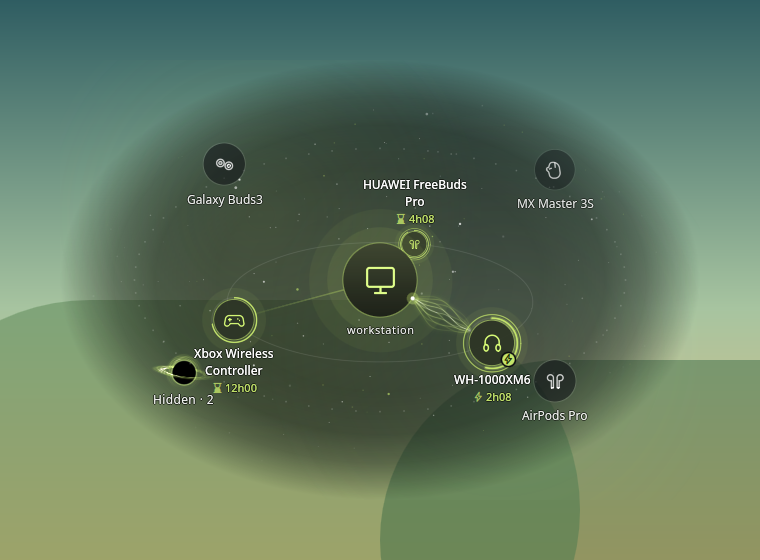
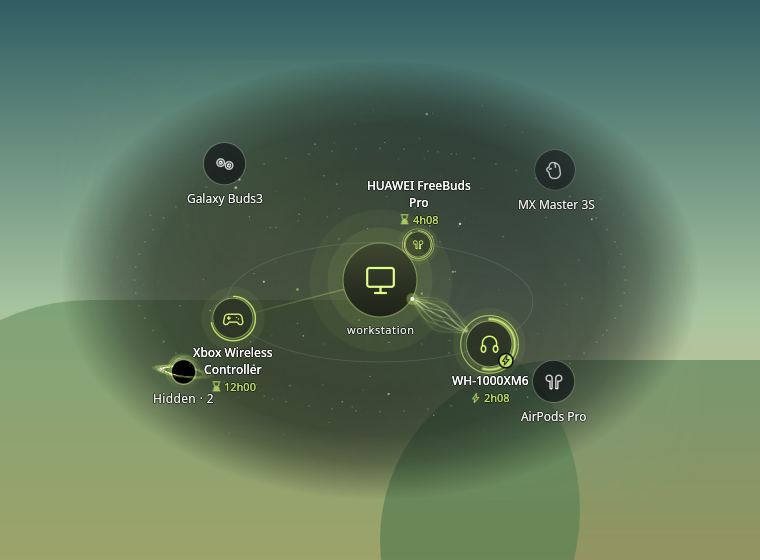
Readable labels on every surface, not only the desktop
Device names were still too faint in the Control Center and the bar
popout: far devices faded to about 30 %. The outline now applies to
every label, far devices barely fade (0.85-1) and their disc is a
little more present. The desktop disc gets a bit darker too.

diff --git a/components/DeviceBody.qml b/components/DeviceBody.qml
@@ -188,7 +188,7 @@ Item {
     y: py - height / 2
     // Bodies on the far side of the ring pass behind the host core (z 50)
     z: focused ? 20000 : dragging ? 10000 : inSlot && depth < 0 ? 10 + py * 0.01 : 100 + py
-    opacity: leaving ? 0 : (spawned ? 1 : 0) * ((scene.focusBody && scene.focusBody !== body) || scene.hiddenOpen ? 0.1 : 1) * (inSlot ? 1 : scene.glass ? (dormant ? 0.8 : 0.85 + 0.15 * signal) : dormant ? 0.5 : 0.6 + 0.4 * signal)
+    opacity: leaving ? 0 : (spawned ? 1 : 0) * ((scene.focusBody && scene.focusBody !== body) || scene.hiddenOpen ? 0.1 : 1) * (inSlot ? 1 : dormant ? 0.85 : 0.9 + 0.1 * signal)
 
     Behavior on opacity {
         NumberAnimation {
@@ -454,9 +454,9 @@ Item {
                     duration: 260
                 }
             }
-            color: body.night.whiteBodies ? (body.connected ? Qt.tint("#FFFFFF", Theme.withAlpha(Theme.primary, 0.1)) : Qt.rgba(1, 1, 1, body.dormant ? 0.35 : 0.72)) : body.connected ? Qt.tint(Qt.rgba(0.06, 0.07, 0.09, 0.92), Theme.withAlpha(body.night.primary, 0.16)) : body.scene.glass ? Qt.rgba(0.05, 0.06, 0.08, body.dormant ? 0.5 : 0.6) : Qt.rgba(1, 1, 1, body.dormant ? 0.035 : 0.07)
+            color: body.night.whiteBodies ? (body.connected ? Qt.tint("#FFFFFF", Theme.withAlpha(Theme.primary, 0.1)) : Qt.rgba(1, 1, 1, body.dormant ? 0.35 : 0.72)) : body.connected ? Qt.tint(Qt.rgba(0.06, 0.07, 0.09, 0.92), Theme.withAlpha(body.night.primary, 0.16)) : body.scene.glass ? Qt.rgba(0.05, 0.06, 0.08, body.dormant ? 0.62 : 0.7) : Qt.rgba(1, 1, 1, body.dormant ? 0.07 : 0.1)
             border.width: 1
-            border.color: body.armed && body.holding ? Theme.withAlpha(body.night.error, 0.8) : body.armed ? Theme.withAlpha(body.night.primary, 0.9) : body.connected ? Theme.withAlpha(body.night.primary, 0.55) : Qt.rgba(1, 1, 1, body.dormant ? 0.08 : 0.14)
+            border.color: body.armed && body.holding ? Theme.withAlpha(body.night.error, 0.8) : body.armed ? Theme.withAlpha(body.night.primary, 0.9) : body.connected ? Theme.withAlpha(body.night.primary, 0.55) : Qt.rgba(1, 1, 1, body.dormant ? 0.14 : 0.2)
 
             Behavior on color {
                 ColorAnimation {
@@ -796,8 +796,8 @@ Item {
             horizontalAlignment: Text.AlignHCenter
             text: body.name
             elide: Text.ElideRight
-            color: Qt.rgba(1, 1, 1, body.connected || body.hovered ? 0.88 : body.scene.glass ? 0.78 : 0.5)
-            style: body.scene.glass ? Text.Outline : Text.Normal
+            color: Qt.rgba(1, 1, 1, body.connected || body.hovered ? 0.95 : 0.88)
+            style: Text.Outline
             styleColor: body.scene.labelShade
             font.pixelSize: Math.max(9, Math.round(body.diameter * 0.2))
             font.weight: body.connected ? Font.Medium : Font.Normal
@@ -824,7 +824,7 @@ Item {
                 anchors.verticalCenter: parent.verticalCenter
                 text: Charge.formatShort(parent.minutes)
                 color: Theme.withAlpha(body.night.primary, 0.8)
-                style: body.scene.glass ? Text.Outline : Text.Normal
+                style: Text.Outline
                 styleColor: body.scene.labelShade
                 font.pixelSize: Math.max(8, Math.round(body.diameter * 0.18))
                 font.weight: Font.Medium
@@ -839,7 +839,7 @@ Item {
             visible: !body.charging && !(body.minutesLeft > 0) && body.connected && body.scene.sinceFor(body.address) > 0 && !(body.charge?.minutesToFull > 0)
             text: Catalog.formatDuration(body.scene.now - body.scene.sinceFor(body.address))
             color: Theme.withAlpha(body.night.primary, 0.75)
-            style: body.scene.glass ? Text.Outline : Text.Normal
+            style: Text.Outline
             styleColor: body.scene.labelShade
             font.family: "monospace"
             font.pixelSize: Math.max(8, Math.round(body.diameter * 0.17))

diff --git a/components/OrbitScene.qml b/components/OrbitScene.qml
@@ -25,8 +25,9 @@ Item {
     property bool freezeWhenIdle: false      // desktop: stop animating when idle
     property bool interacting: false         // desktop: pointer is over the widget
     property bool glass: false               // desktop: frameless, fades into the wallpaper
-    // On the desktop, labels sit on whatever wallpaper the user has, often a
-    // pale or busy one: they get a dark, theme-tinted outline to stay legible
+    // Labels get a dark, theme-tinted outline so they stay legible on any
+    // background: a pale or busy wallpaper on the desktop, the bright halo
+    // of a connected device in the panels
     readonly property color labelShade: Qt.tint(Qt.rgba(0.02, 0.024, 0.04, 0.75), Theme.withAlpha(night.primary, 0.07))
     property real cornerRadius: 0            // rounded hosts (Control Center, popout)
     property var previewDevices: []          // fake device objects, for previews and tests
@@ -1299,8 +1300,8 @@ Item {
             y: core.y + core.height + 4
             z: 50
             text: UserInfoService.hostname || ""
-            color: Qt.rgba(1, 1, 1, scene.glass ? 0.7 : 0.45)
-            style: scene.glass ? Text.Outline : Text.Normal
+            color: Qt.rgba(1, 1, 1, 0.75)
+            style: Text.Outline
             styleColor: scene.labelShade
             font.pixelSize: Math.max(9, Math.round(scene.coreSize * 0.14))
             font.letterSpacing: 0.6

diff --git a/components/BlackHole.qml b/components/BlackHole.qml
@@ -75,8 +75,8 @@ Item {
         anchors.horizontalCenter: parent.horizontalCenter
         y: parent.height / 2 + hole.horizon + 6
         text: hole.count > 0 ? "Hidden · " + hole.count : "Hidden"
-        color: Qt.rgba(1, 1, 1, hole.hovered || hole.feed > 0.3 ? 0.8 : hole.scene.glass ? 0.7 : 0.42)
-        style: hole.scene.glass ? Text.Outline : Text.Normal
+        color: Qt.rgba(1, 1, 1, hole.hovered || hole.feed > 0.3 ? 0.88 : 0.75)
+        style: Text.Outline
         styleColor: hole.scene.labelShade
         font.pixelSize: Math.max(9, Math.round(hole.scene.bodySize * 0.2))
         font.letterSpacing: 0.4

diff --git a/README.md b/README.md
@@ -20,7 +20,7 @@ disconnect it. Charging devices receive a beam of energy from the core.
 - Follows light and dark DMS themes, the sky always stays night
 - Idle scenes use no frames at all; nothing leaves your machine
 
-**New in 1.4.1:** device names stay readable on a pale or busy wallpaper. See the [changelog](#changelog) and the [roadmap](#roadmap).
+**New in 1.4.1:** device names stay readable everywhere, even on a pale or busy wallpaper. See the [changelog](#changelog) and the [roadmap](#roadmap).
 
 **Contents:** [Install](#install) · [Quick start](#quick-start) · [Using the orbit](#using-the-orbit) · [Noise control](#noise-control) · [Settings](#settings) · [Privacy](#privacy) · [Troubleshooting](#troubleshooting) · [Changelog](#changelog) · [Roadmap](#roadmap)
 
@@ -441,7 +441,7 @@ over time.
 ## Changelog
 
 ### 1.4.1 (2026-09-27)
-- Desktop widget: device names, the host name and the black hole's label get a thin dark outline tinted by your theme, and devices that are not connected fade less and sit on a smoky disc. They no longer vanish on a pale or busy wallpaper. The Control Center and the bar popout look the same as before.
+- Device names are readable everywhere: every label (devices, host, black hole) gets a thin dark outline tinted by your theme, and devices that are not connected barely fade any more. On the desktop they also sit on a smoky disc, so they no longer vanish on a pale or busy wallpaper. Same in the Control Center and the bar popout.
 
 ### 1.4.0 (2026-09-26)
 - Rename a device: click its name in the detail card. Enter saves, Escape cancels, an empty name restores the device's own name.
